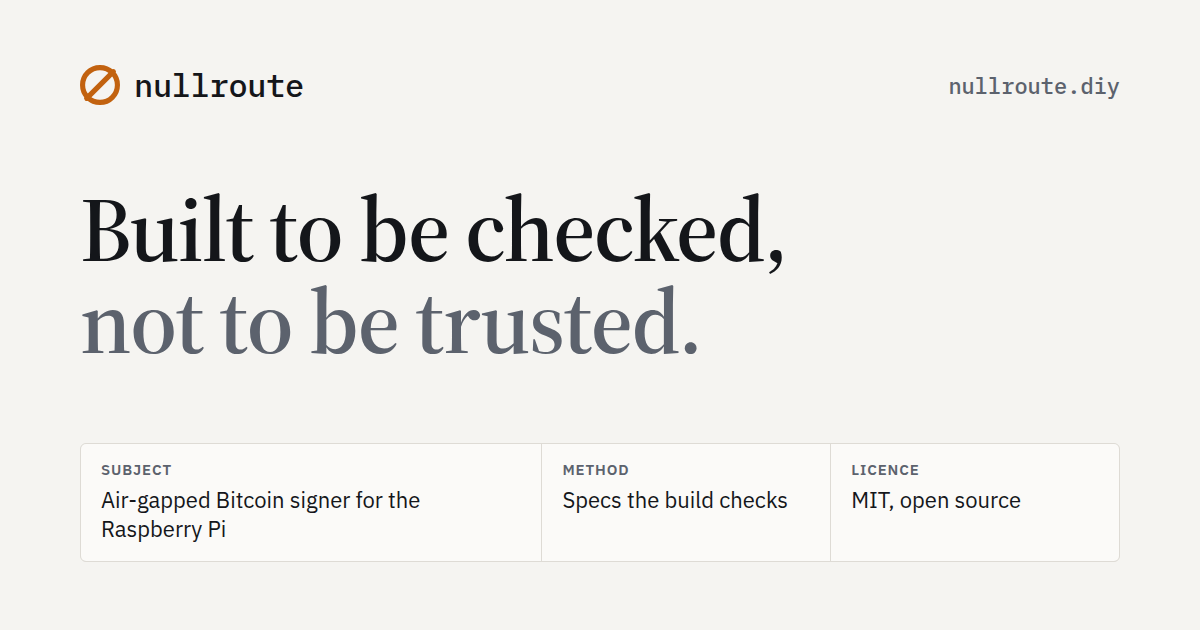
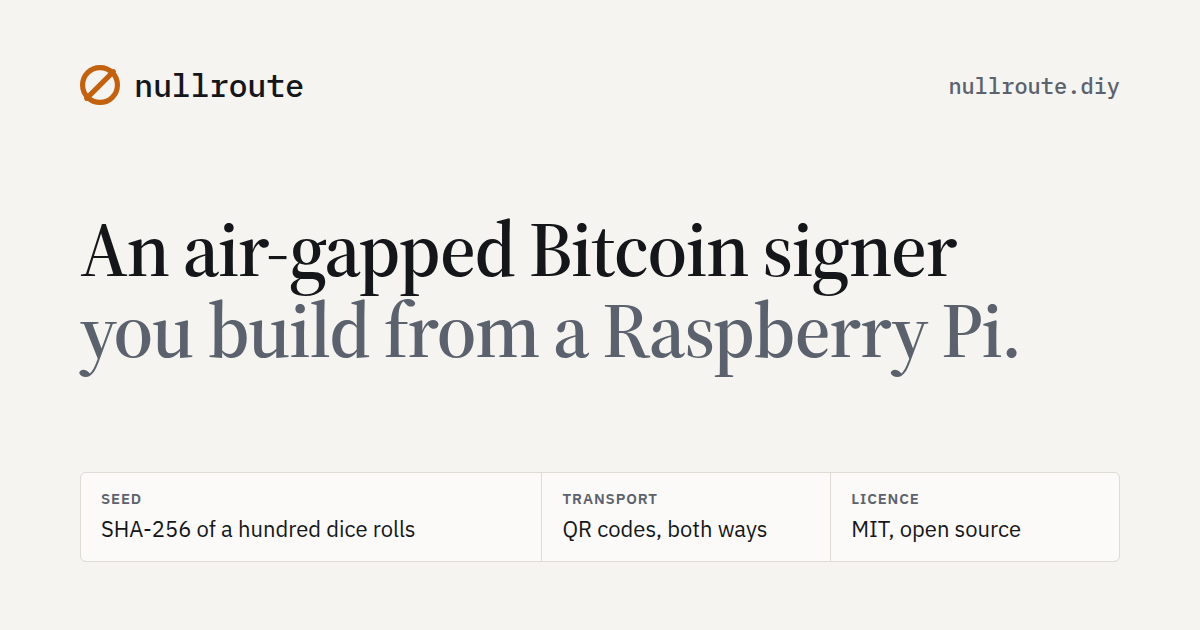
A shared link still unfurled with the slogan the front page dropped
The social card is what a reader sees first when the link is pasted into a
form or a chat. It now carries the front page's opening words, and the seed
rule and the transport in place of "Specs the build checks". The site's title,
description and the card's alt text follow it.

diff --git a/apps/web/app/layout.tsx b/apps/web/app/layout.tsx
@@ -10,14 +10,14 @@ import '../styles/globals.css'
 export const metadata: Metadata = {
   metadataBase: new URL('https://nullroute.diy'),
   title: {
-    default: 'nullroute: an air-gapped Bitcoin signer built to be checked',
+    default: 'nullroute: an air-gapped Bitcoin signer you build from a Raspberry Pi',
     template: '%s | nullroute',
   },
   description:
-    'An air-gapped Bitcoin signer for the Raspberry Pi, built to be checked rather than trusted. Dice entropy you can reproduce by hand, byte-identical signatures, a machine-checkable specification for every module, and a draft signer profile with a conformance kit any signer can run. Pre-1.0, unaudited, hardware bring-up next.',
+    'An air-gapped Bitcoin signer you build from a Raspberry Pi. A seed from dice rolls you can recompute by hand, transactions by QR code, deterministic signatures, and one hash over every file it runs. A draft signer profile and conformance kit any signer can run. Pre-release, unaudited, hardware bring-up next.',
   openGraph: {
     title: 'nullroute',
-    description: 'An air-gapped Bitcoin signer built to be checked, not trusted.',
+    description: 'An air-gapped Bitcoin signer you build from a Raspberry Pi.',
     url: 'https://nullroute.diy',
     siteName: 'nullroute',
     type: 'website',
@@ -26,7 +26,7 @@ export const metadata: Metadata = {
   twitter: {
     card: 'summary_large_image',
     title: 'nullroute',
-    description: 'An air-gapped Bitcoin signer built to be checked, not trusted.',
+    description: 'An air-gapped Bitcoin signer you build from a Raspberry Pi.',
     images: [OG_IMAGE],
   },
   robots: { index: true, follow: true },

diff --git a/apps/web/lib/site.ts b/apps/web/lib/site.ts
@@ -24,7 +24,7 @@ export const OG_IMAGE = {
   url: '/brand/og.png',
   width: 1200,
   height: 630,
-  alt: 'nullroute. Built to be checked, not to be trusted. Air-gapped Bitcoin signer for the Raspberry Pi.',
+  alt: 'nullroute. An air-gapped Bitcoin signer you build from a Raspberry Pi.',
   type: 'image/png',
 } as const
 
